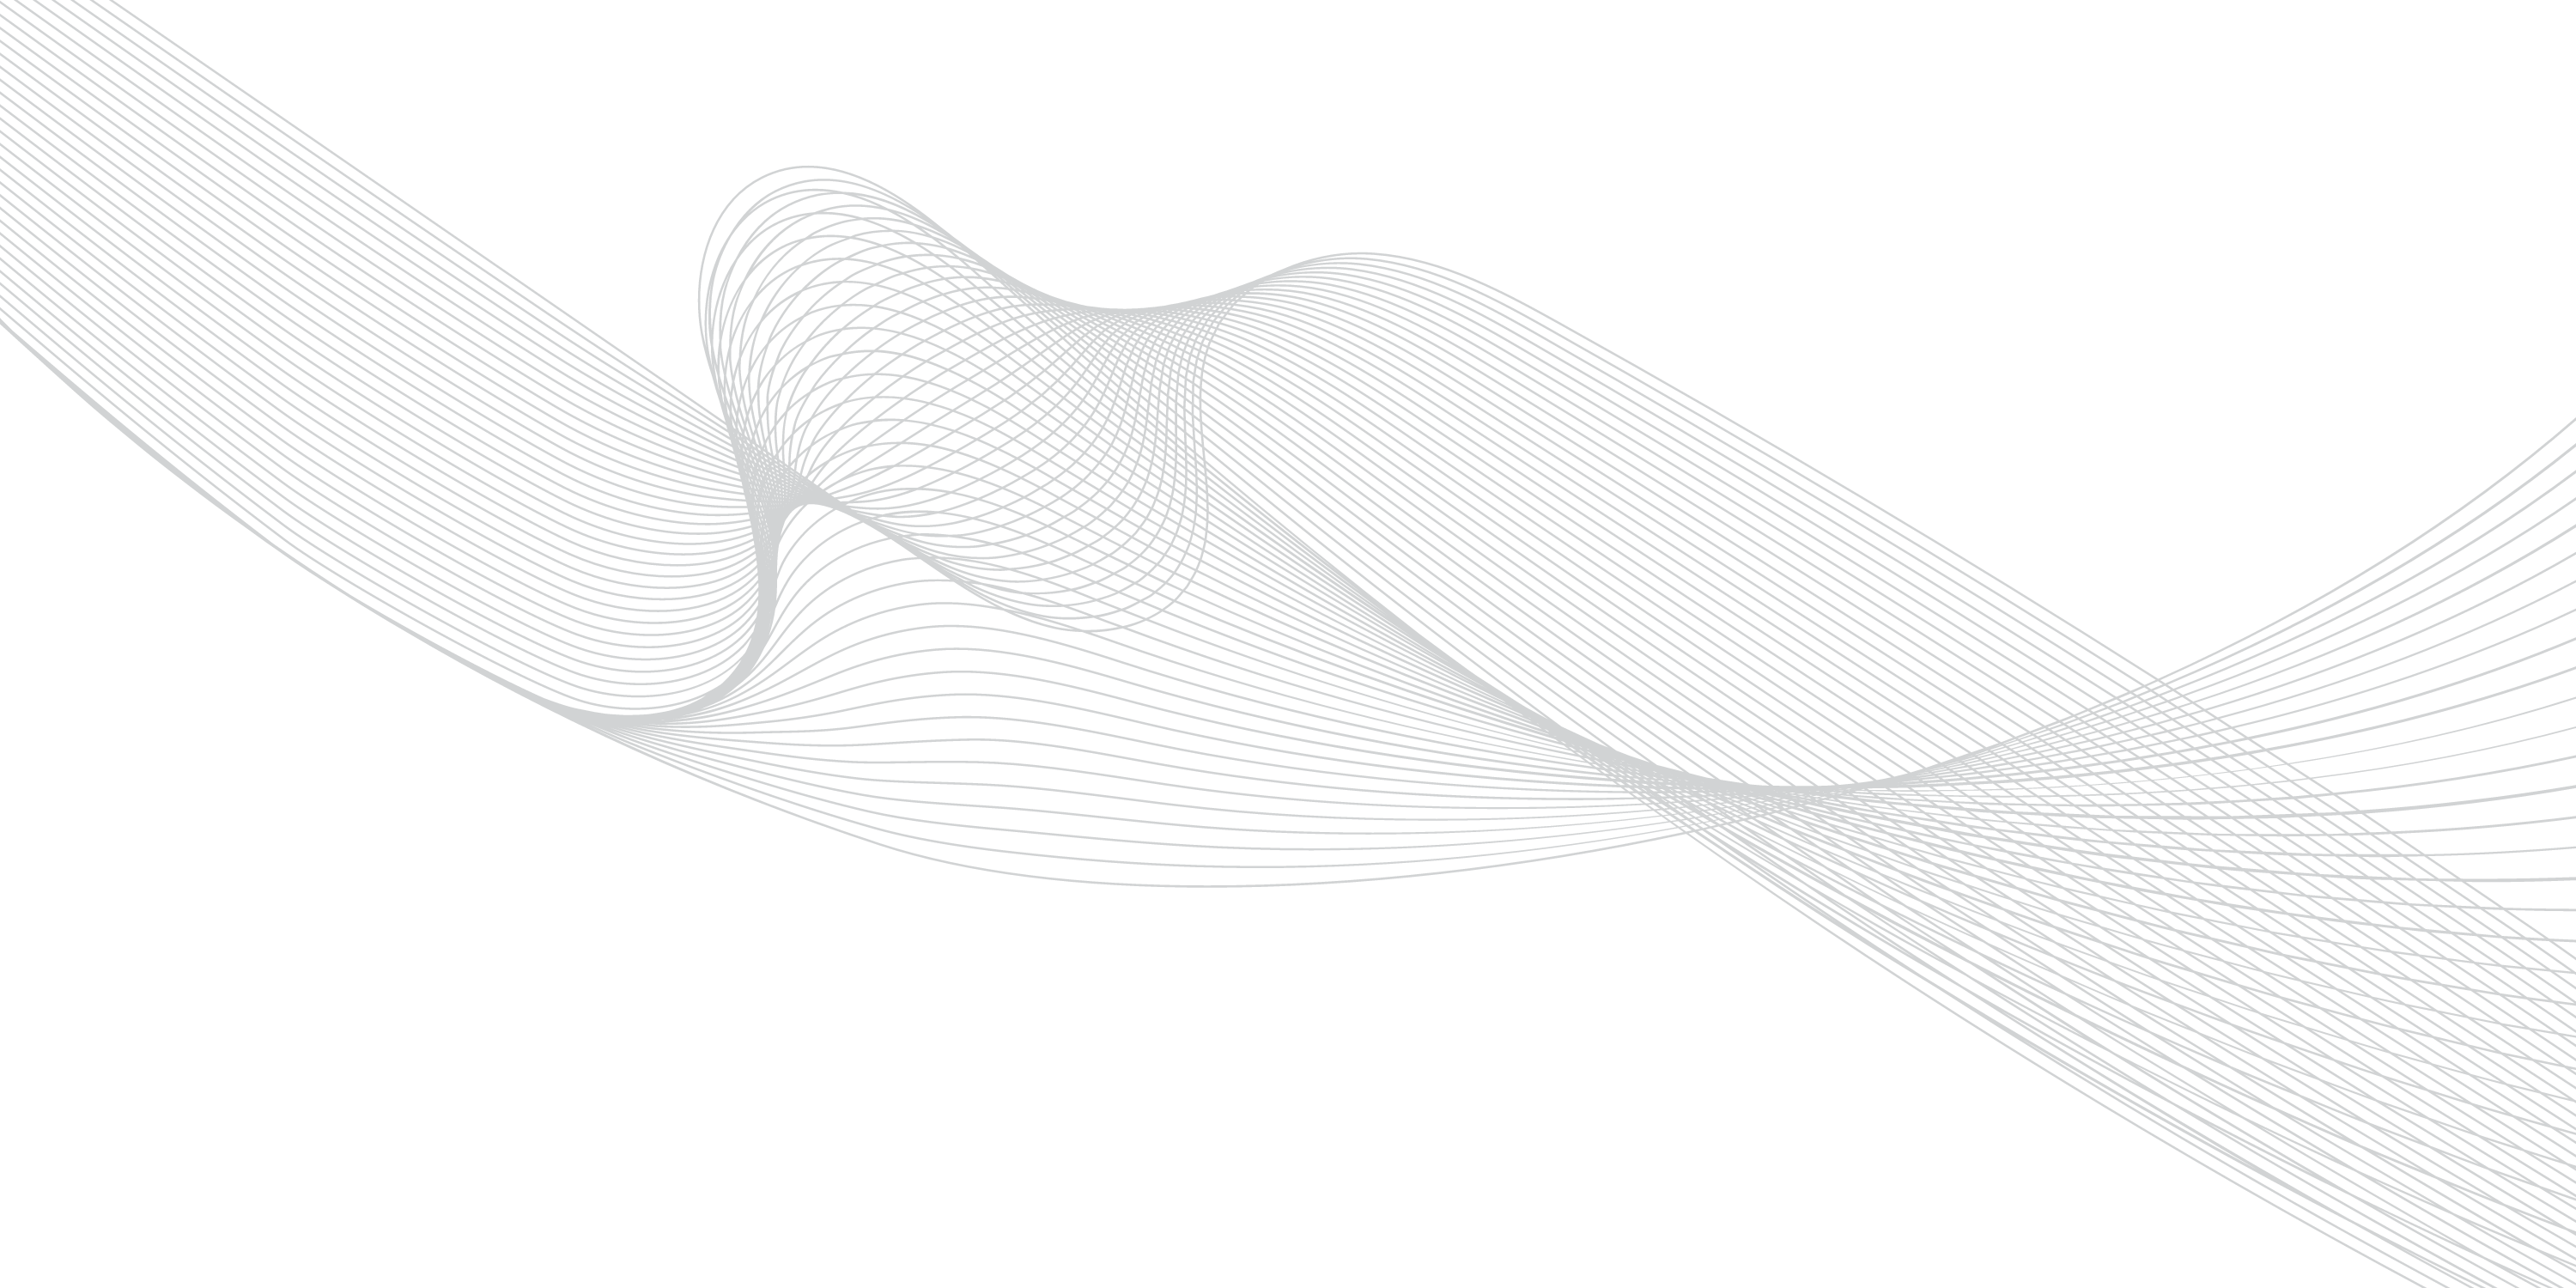
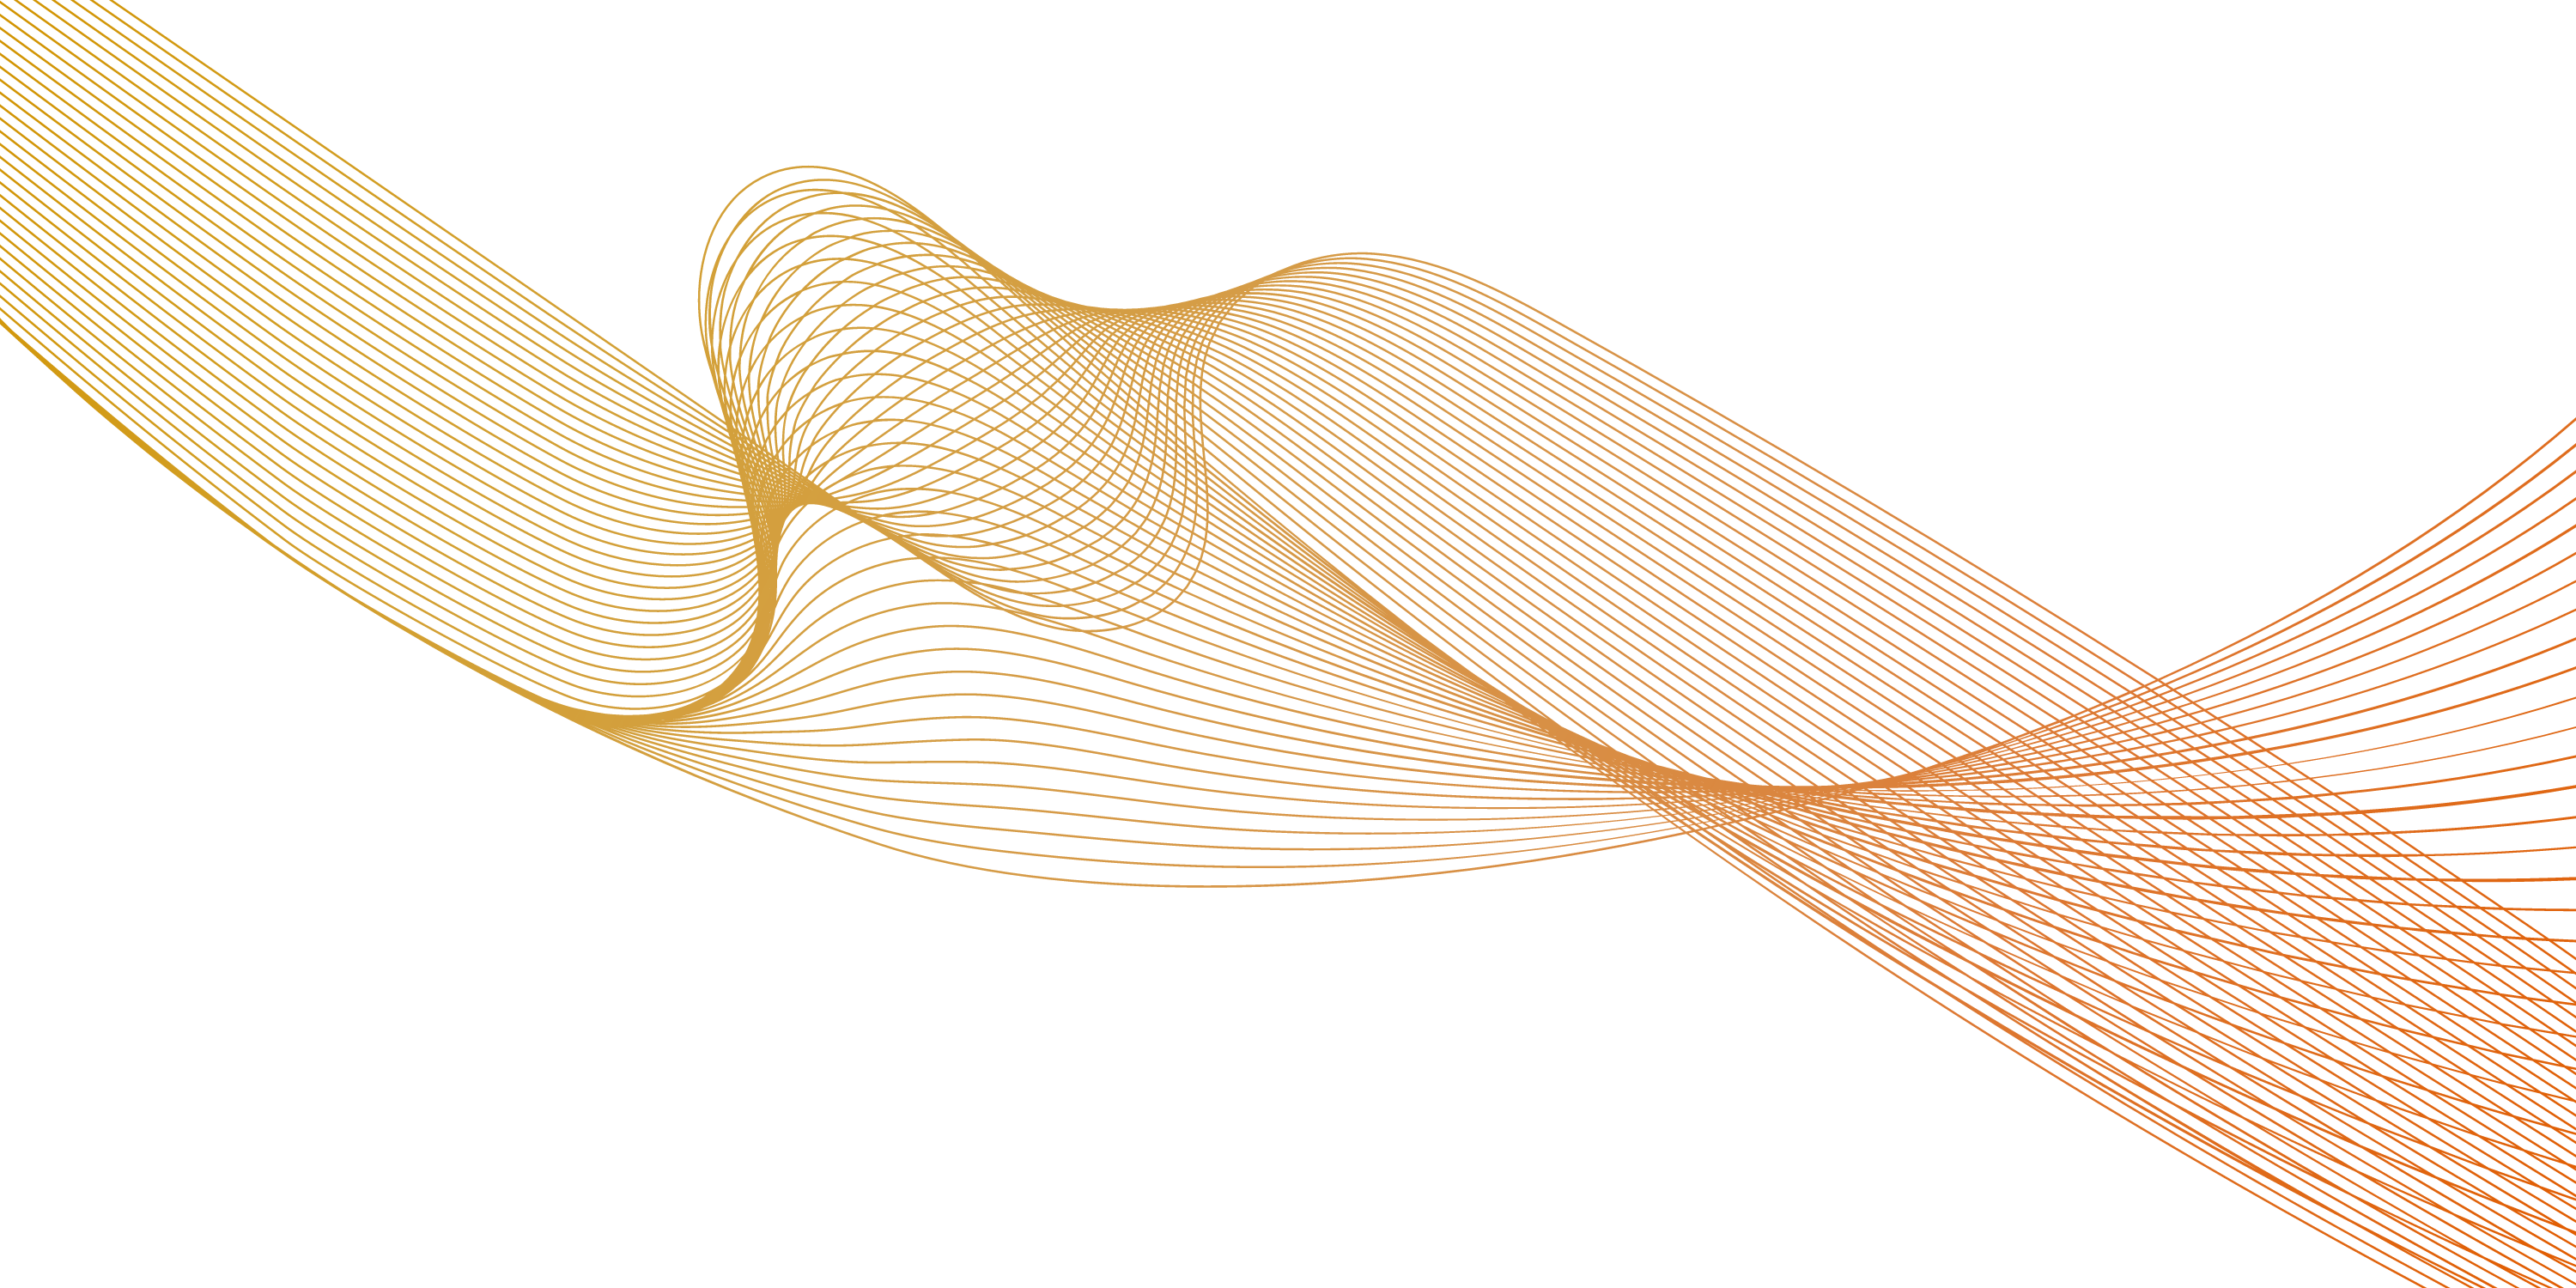
fixed CV download, added bg light

Changed region(s): [[0.0, 0.0, 1.0, 1.0], [0.992, 0.5827, 1.0, 0.6133]]

diff --git a/src/components/Navigation.tsx b/src/components/Navigation.tsx
@@ -17,7 +17,7 @@ import MenuIcon from '@mui/icons-material/Menu';
 import Toolbar from '@mui/material/Toolbar';
 
 const drawerWidth = 240;
-const navItems = [['Expertise', 'expertise'], ['History', 'history'], ['Projects', 'projects'], ['Contact', 'contact']];
+const navItems = [['Projects', 'projects'], ['Expertise', 'expertise'], ['History', 'history'], ['Contact', 'contact']];
 
 function Navigation({parentToChild, modeChange}: any) {
 
@@ -51,12 +51,13 @@ function Navigation({parentToChild, modeChange}: any) {
     const expertiseElement = document.getElementById(section);
     if (expertiseElement) {
       expertiseElement.scrollIntoView({ behavior: 'smooth' });
-      console.log('Scrolling to:', expertiseElement);  // Debugging: Ensure the element is found
+      console.log('Scrolling to:', expertiseElement);
     } else {
-      console.error('Element with id "expertise" not found');  // Debugging: Log error if element is not found
+      console.error('Element with id "expertise" not found');
     }
   };
 
+  // MOBILE SIDE DRAWER MENU
   const drawer = (
     <Box className="navigation-bar-responsive" onClick={handleDrawerToggle} sx={{ textAlign: 'center' }}>
       <p className="mobile-menu-top"><ListIcon/>Menu</p>
@@ -69,6 +70,18 @@ function Navigation({parentToChild, modeChange}: any) {
             </ListItemButton>
           </ListItem>
         ))}
+        {/* ADDED FOR MOBILE: Seamless List Item for the CV download */}
+        <Divider />
+        <ListItem disablePadding>
+          <ListItemButton 
+            component="a" 
+            href={`${process.env.PUBLIC_URL}/Martina_Tenani_CV.pdf`}
+            download="Martina_Tenani_CV.pdf"
+            sx={{ textAlign: 'center', color: '#5000ca', fontWeight: 'bold' }}
+          >
+            <ListItemText primary="Download CV (PDF)" />
+          </ListItemButton>
+        </ListItem>
       </List>
     </Box>
   );
@@ -87,17 +100,35 @@ function Navigation({parentToChild, modeChange}: any) {
           >
             <MenuIcon />
           </IconButton>
+          
           {mode === 'dark' ? (
             <LightModeIcon onClick={() => modeChange()}/>
           ) : (
             <DarkModeIcon onClick={() => modeChange()}/>
           )}
+
+          <Box sx={{ flexGrow: 1 }} />
+
           <Box sx={{ display: { xs: 'none', sm: 'block' } }}>
             {navItems.map((item) => (
               <Button key={item[0]} onClick={() => scrollToSection(item[1])} sx={{ color: '#fff' }}>
                 {item[0]}
               </Button>
             ))}
+            
+            <Button 
+              component="a" 
+              href={`${process.env.PUBLIC_URL}/Martina_Tenani_CV.pdf`} 
+              download="Martina_Tenani_CV.pdf"
+              sx={{ 
+                color: '#fff', 
+                marginLeft: '15px',
+                border: '1px solid rgba(255, 255, 255, 0.5)',
+                '&:hover': { border: '1px solid #fff', backgroundColor: 'rgba(255, 255, 255, 0.1)' }
+              }}
+            >
+              Curriculum Vitae (PDF)
+            </Button>
           </Box>
         </Toolbar>
       </AppBar>
@@ -107,7 +138,7 @@ function Navigation({parentToChild, modeChange}: any) {
           open={mobileOpen}
           onClose={handleDrawerToggle}
           ModalProps={{
-            keepMounted: true, // Better open performance on mobile.
+            keepMounted: true, 
           }}
           sx={{
             display: { xs: 'block', sm: 'none' },